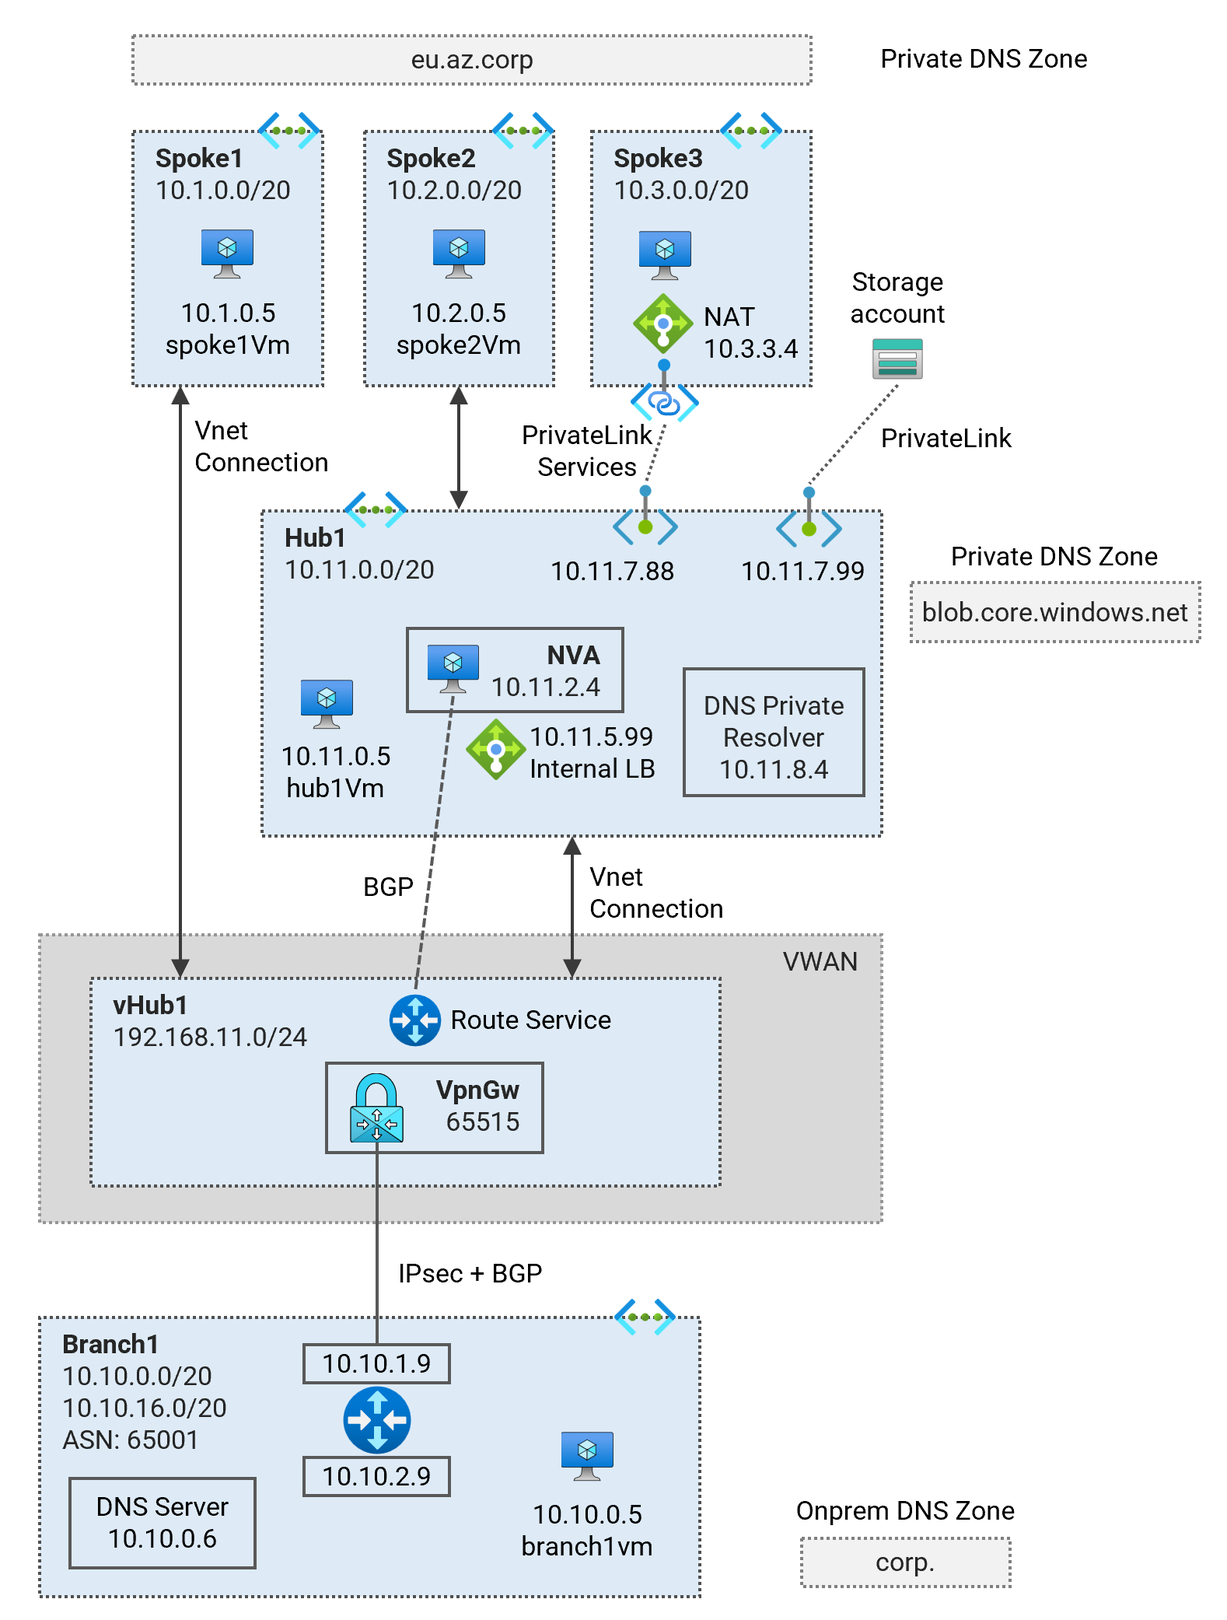
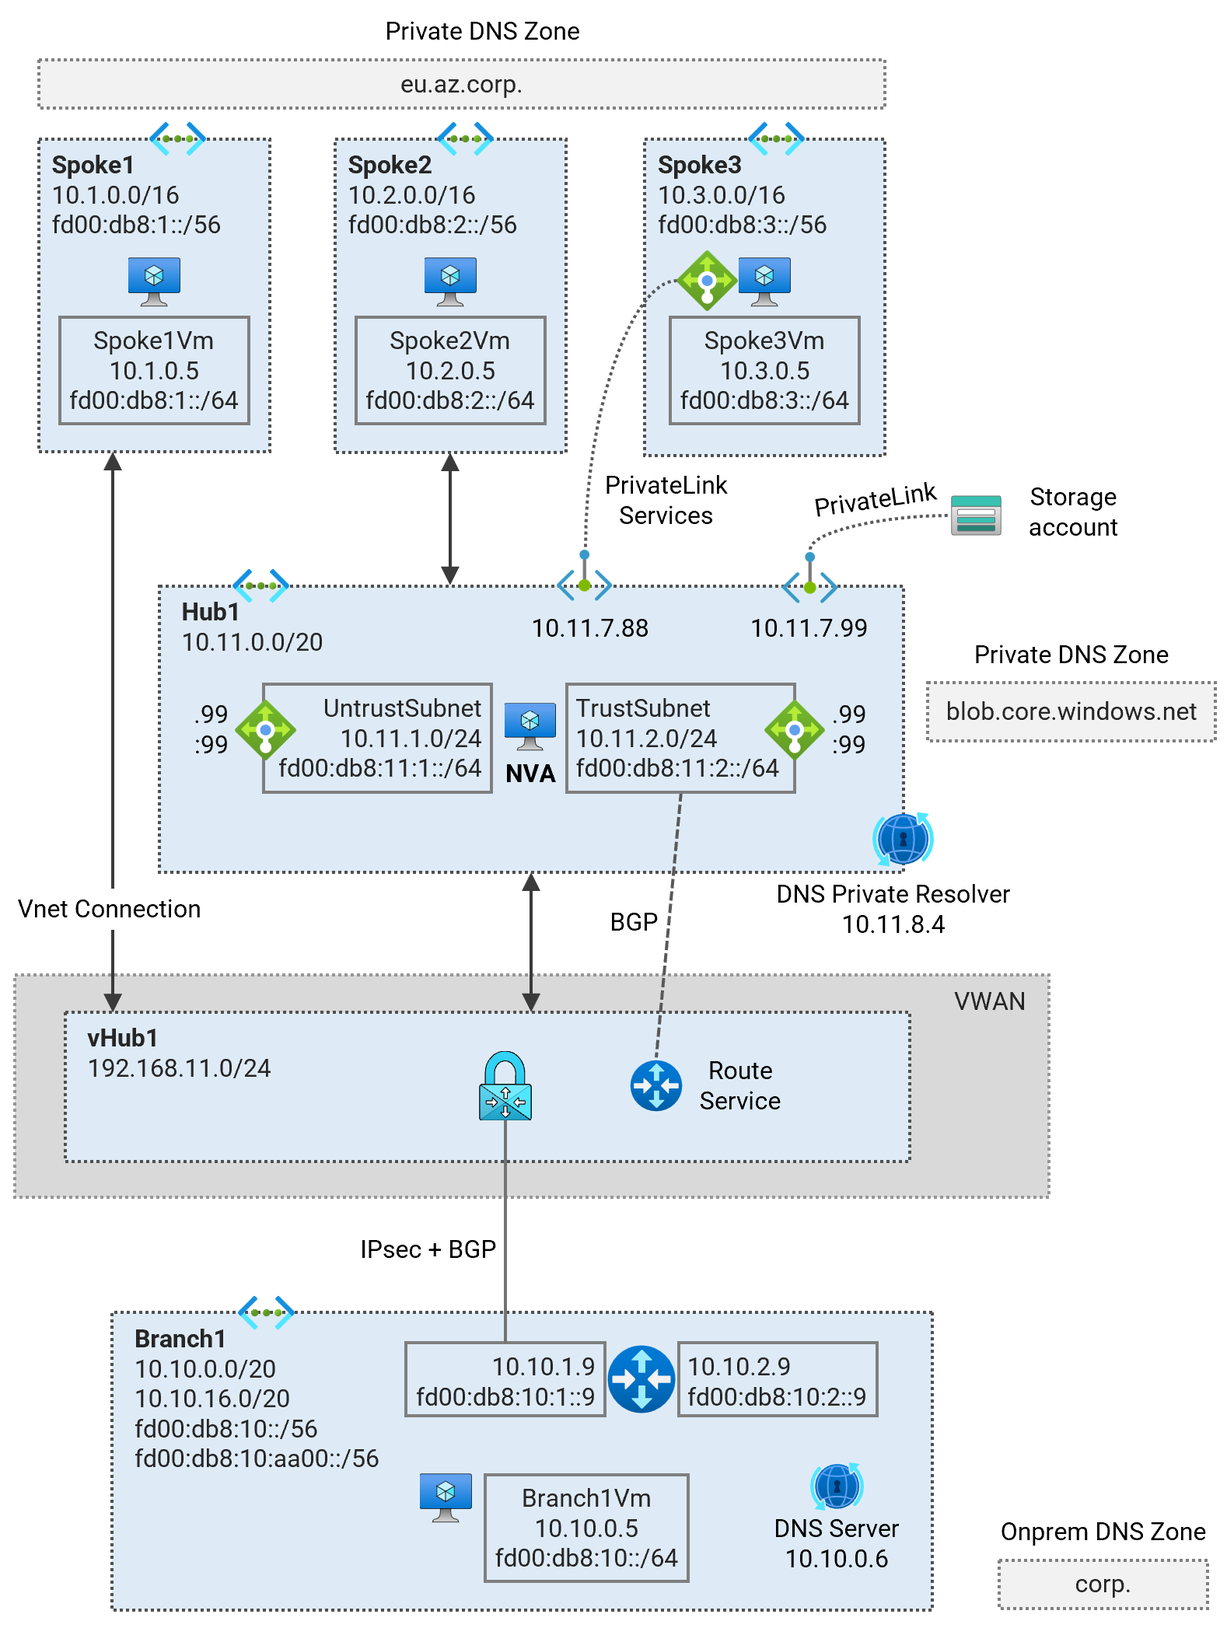
added ipv6 to diagrams

diff --git a/README.md b/README.md
@@ -49,7 +49,7 @@ Terraform codes in this collection cover different hub and spoke network pattern
 
 This lab deploys a single-region Virtual WAN (Vwan) topology. The lab demonstrates traffic routing patterns, [hybrid DNS](https://learn.microsoft.com/en-us/azure/dns/private-resolver-hybrid-dns) resolution, [connecting NVA](https://learn.microsoft.com/en-us/azure/virtual-wan/scenario-bgp-peering-hub) into the virtual hub, and [PrivateLink Services](https://learn.microsoft.com/en-us/azure/private-link/private-link-service-overview) access to IaaS, [PrivateLink](https://learn.microsoft.com/en-us/azure/private-link/private-link-overview) access to PaaS services.
 
-<img src="./images/scenarios/2-1-vwan-single-region.png" alt="Virtual WAN - Single Region" width="580">
+<img src="./images/scenarios/2-1-vwan-single-region.png" alt="Virtual WAN - Single Region" width="620">
 
 ### 2.2. Virtual WAN - Dual Region
 
@@ -57,7 +57,7 @@ This lab deploys a single-region Virtual WAN (Vwan) topology. The lab demonstrat
 
 This lab deploys a dual-region Virtual WAN (Vwan) topology. The lab demonstrates multi-region traffic routing patterns, [hybrid DNS](https://learn.microsoft.com/en-us/azure/dns/private-resolver-hybrid-dns) resolution, [connecting NVA](https://learn.microsoft.com/en-us/azure/virtual-wan/scenario-bgp-peering-hub) into the virtual hubs, and [PrivateLink Services](https://learn.microsoft.com/en-us/azure/private-link/private-link-service-overview) access to IaaS, [PrivateLink](https://learn.microsoft.com/en-us/azure/private-link/private-link-overview) access to PaaS services.
 
-<img src="./images/scenarios/2-2-vwan-dual-region.png" alt="Virtual WAN - Dual Region" width="880">
+<img src="./images/scenarios/2-2-vwan-dual-region.png" alt="Virtual WAN - Dual Region" width="1100">
 
 ### 2.3. Secured Virtual WAN - Single Region
 
@@ -65,7 +65,7 @@ This lab deploys a dual-region Virtual WAN (Vwan) topology. The lab demonstrates
 
 This lab deploys a single-region Secured Virtual WAN (Vwan) topology. [Routing Intent](https://learn.microsoft.com/en-us/azure/virtual-wan/how-to-routing-policies) feature is enabled to allow traffic inspection through the Azure firewall in the virtual hub. The lab demonstrates traffic routing patterns, routing intent [security policies](https://learn.microsoft.com/en-us/azure/virtual-wan/how-to-routing-policies), [hybrid DNS](https://learn.microsoft.com/en-us/azure/dns/private-resolver-hybrid-dns) resolution, NVA integration into the virtual hub, and [PrivateLink Services](https://learn.microsoft.com/en-us/azure/private-link/private-link-service-overview) access to IaaS, [PrivateLink](https://learn.microsoft.com/en-us/azure/private-link/private-link-overview) access to PaaS services.
 
-<img src="./images/scenarios/2-3-vwan-sec-single-region.png" alt="Secured Virtual WAN - Single Region" width="580">
+<img src="./images/scenarios/2-3-vwan-sec-single-region.png" alt="Secured Virtual WAN - Single Region" width="620">
 
 ### 2.4. Secured Virtual WAN - Dual Region
 
@@ -73,7 +73,7 @@ This lab deploys a single-region Secured Virtual WAN (Vwan) topology. [Routing I
 
 This lab deploys a dual-region Secured Virtual WAN (Vwan) topology. [Routing Intent](https://learn.microsoft.com/en-us/azure/virtual-wan/how-to-routing-policies) feature is enabled to allow traffic inspection through the Azure firewalls in the virtual hubs. The lab demonstrates multi-region traffic routing patterns, routing intent [security policies](https://learn.microsoft.com/en-us/azure/virtual-wan/how-to-routing-policies), [hybrid DNS](https://learn.microsoft.com/en-us/azure/dns/private-resolver-hybrid-dns) resolution, [connecting NVA](https://learn.microsoft.com/en-us/azure/virtual-wan/scenario-bgp-peering-hub) into the virtual hubs, and [PrivateLink Services](https://learn.microsoft.com/en-us/azure/private-link/private-link-service-overview) access to IaaS, [PrivateLink](https://learn.microsoft.com/en-us/azure/private-link/private-link-overview) access to PaaS services.
 
-<img src="./images/scenarios/2-4-vwan-sec-dual-region.png" alt="Secured Virtual WAN - Dual Region" width="880">
+<img src="./images/scenarios/2-4-vwan-sec-dual-region.png" alt="Secured Virtual WAN - Dual Region" width="1100">
 
 ## [3. Virtual Network Manager](./3-network-manager/)
 
@@ -83,7 +83,7 @@ This lab deploys a dual-region Secured Virtual WAN (Vwan) topology. [Routing Int
 
 Deploy a single-region Hub and Spoke Secured Virtual Network (Vnet) topology using the [Azure Virtual Network Manager](https://learn.microsoft.com/en-us/azure/virtual-network-manager/concept-connectivity-configuration#hub-and-spoke-topology) (AVNM) service. Learn about traffic routing patterns, [hybrid DNS](https://learn.microsoft.com/en-us/azure/dns/private-resolver-hybrid-dns) resolution, firewall security policies, and [PrivateLink Services](https://learn.microsoft.com/en-us/azure/private-link/private-link-service-overview) access to IaaS, [PrivateLink](https://learn.microsoft.com/en-us/azure/private-link/private-link-overview) access to PaaS services.
 
-<img src="./images/scenarios/3-1-hub-spoke-nm-azfw-single-region.png" alt="Secured Hub and Spoke (Single region)" width="650">
+<img src="./images/scenarios/3-1-hub-spoke-nm-azfw-single-region.png" alt="Secured Hub and Spoke (Single region)" width="750">
 
 ### 3.2. Secured Hub and Spoke - Dual Region (Virtual Network Manager)
 
@@ -91,7 +91,7 @@ Deploy a single-region Hub and Spoke Secured Virtual Network (Vnet) topology usi
 
 Deploy a dual-region Hub and Spoke Secured Virtual Network (Vnet) topology using the [Azure Virtual Network Manager](https://learn.microsoft.com/en-us/azure/virtual-network-manager/concept-connectivity-configuration#hub-and-spoke-topology) (AVNM) service. Learn about traffic routing patterns, [hybrid DNS](https://learn.microsoft.com/en-us/azure/dns/private-resolver-hybrid-dns) resolution, firewall security policies, and [PrivateLink Services](https://learn.microsoft.com/en-us/azure/private-link/private-link-service-overview) access to IaaS, [PrivateLink](https://learn.microsoft.com/en-us/azure/private-link/private-link-overview) access to PaaS services.
 
-<img src="./images/scenarios/3-2-hub-spoke-nm-azfw-dual-region.png" alt="Secured Hub and Spoke (Dual region)" width="1000">
+<img src="./images/scenarios/3-2-hub-spoke-nm-azfw-dual-region.png" alt="Secured Hub and Spoke (Dual region)" width="1200">
 <p>
 
 ## [4. General](./4-general/)

diff --git a/2-virtual-wan/README.md b/2-virtual-wan/README.md
@@ -17,7 +17,7 @@ Terraform codes in this collection cover different hub and spoke network pattern
 
 This lab deploys a single-region Virtual WAN (Vwan) topology. The lab demonstrates traffic routing patterns, [hybrid DNS](https://learn.microsoft.com/en-us/azure/dns/private-resolver-hybrid-dns) resolution, [connecting NVA](https://learn.microsoft.com/en-us/azure/virtual-wan/scenario-bgp-peering-hub) into the virtual hub, and [PrivateLink Services](https://learn.microsoft.com/en-us/azure/private-link/private-link-service-overview) access to IaaS, [PrivateLink](https://learn.microsoft.com/en-us/azure/private-link/private-link-overview) access to PaaS services.
 
-<img src="../images/scenarios/2-1-vwan-single-region.png" alt="Virtual WAN - Single Region" width="580">
+<img src="../images/scenarios/2-1-vwan-single-region.png" alt="Virtual WAN - Single Region" width="620">
 
 ## 2. Virtual WAN - Dual Region
 
@@ -25,7 +25,7 @@ This lab deploys a single-region Virtual WAN (Vwan) topology. The lab demonstrat
 
 This lab deploys a dual-region Virtual WAN (Vwan) topology. The lab demonstrates multi-region traffic routing patterns, [hybrid DNS](https://learn.microsoft.com/en-us/azure/dns/private-resolver-hybrid-dns) resolution, [connecting NVA](https://learn.microsoft.com/en-us/azure/virtual-wan/scenario-bgp-peering-hub) into the virtual hubs, and [PrivateLink Services](https://learn.microsoft.com/en-us/azure/private-link/private-link-service-overview) access to IaaS, [PrivateLink](https://learn.microsoft.com/en-us/azure/private-link/private-link-overview) access to PaaS services.
 
-<img src="../images/scenarios/2-2-vwan-dual-region.png" alt="Virtual WAN - Dual Region" width="880">
+<img src="../images/scenarios/2-2-vwan-dual-region.png" alt="Virtual WAN - Dual Region" width="1100">
 
 ## 3. Secured Virtual WAN - Single Region
 
@@ -33,7 +33,7 @@ This lab deploys a dual-region Virtual WAN (Vwan) topology. The lab demonstrates
 
 This lab deploys a single-region Secured Virtual WAN (Vwan) topology. [Routing Intent](https://learn.microsoft.com/en-us/azure/virtual-wan/how-to-routing-policies) feature is enabled to allow traffic inspection through the Azure firewall in the virtual hub. The lab demonstrates traffic routing patterns, routing intent [security policies](https://learn.microsoft.com/en-us/azure/virtual-wan/how-to-routing-policies), [hybrid DNS](https://learn.microsoft.com/en-us/azure/dns/private-resolver-hybrid-dns) resolution, NVA integration into the virtual hub, and [PrivateLink Services](https://learn.microsoft.com/en-us/azure/private-link/private-link-service-overview) access to IaaS, [PrivateLink](https://learn.microsoft.com/en-us/azure/private-link/private-link-overview) access to PaaS services.
 
-<img src="../images/scenarios/2-3-vwan-sec-single-region.png" alt="Secured Virtual WAN - Single Region" width="580">
+<img src="../images/scenarios/2-3-vwan-sec-single-region.png" alt="Secured Virtual WAN - Single Region" width="620">
 
 ## 4. Secured Virtual WAN - Dual Region
 
@@ -41,5 +41,5 @@ This lab deploys a single-region Secured Virtual WAN (Vwan) topology. [Routing I
 
 This lab deploys a dual-region Secured Virtual WAN (Vwan) topology. [Routing Intent](https://learn.microsoft.com/en-us/azure/virtual-wan/how-to-routing-policies) feature is enabled to allow traffic inspection through the Azure firewalls in the virtual hubs. The lab demonstrates multi-region traffic routing patterns, routing intent [security policies](https://learn.microsoft.com/en-us/azure/virtual-wan/how-to-routing-policies), [hybrid DNS](https://learn.microsoft.com/en-us/azure/dns/private-resolver-hybrid-dns) resolution, [connecting NVA](https://learn.microsoft.com/en-us/azure/virtual-wan/scenario-bgp-peering-hub) into the virtual hubs, and [PrivateLink Services](https://learn.microsoft.com/en-us/azure/private-link/private-link-service-overview) access to IaaS, [PrivateLink](https://learn.microsoft.com/en-us/azure/private-link/private-link-overview) access to PaaS services.
 
-<img src="../images/scenarios/2-4-vwan-sec-dual-region.png" alt="Secured Virtual WAN - Dual Region" width="880">
+<img src="../images/scenarios/2-4-vwan-sec-dual-region.png" alt="Secured Virtual WAN - Dual Region" width="1100">
 

diff --git a/3-network-manager/README.md b/3-network-manager/README.md
@@ -15,7 +15,7 @@ Terraform codes in this collection cover different hub and spoke network pattern
 
 Deploy a single-region Hub and Spoke Secured Virtual Network (Vnet) topology using the [Azure Virtual Network Manager](https://learn.microsoft.com/en-us/azure/virtual-network-manager/concept-connectivity-configuration#hub-and-spoke-topology) (AVNM) service. Learn about traffic routing patterns, [hybrid DNS](https://learn.microsoft.com/en-us/azure/dns/private-resolver-hybrid-dns) resolution, firewall security policies, and [PrivateLink Services](https://learn.microsoft.com/en-us/azure/private-link/private-link-service-overview) access to IaaS, [PrivateLink](https://learn.microsoft.com/en-us/azure/private-link/private-link-overview) access to PaaS services.
 
-<img src="../images/scenarios/3-1-hub-spoke-nm-azfw-single-region.png" alt="Secured Hub and Spoke (Single region)" width="650">
+<img src="../images/scenarios/3-1-hub-spoke-nm-azfw-single-region.png" alt="Secured Hub and Spoke (Single region)" width="750">
 
 ## 2. Secured Hub and Spoke - Dual Region (Virtual Network Manager)
 
@@ -23,4 +23,4 @@ Deploy a single-region Hub and Spoke Secured Virtual Network (Vnet) topology usi
 
 Deploy a dual-region Hub and Spoke Secured Virtual Network (Vnet) topology using the [Azure Virtual Network Manager](https://learn.microsoft.com/en-us/azure/virtual-network-manager/concept-connectivity-configuration#hub-and-spoke-topology) (AVNM) service. Learn about traffic routing patterns, [hybrid DNS](https://learn.microsoft.com/en-us/azure/dns/private-resolver-hybrid-dns) resolution, firewall security policies, and [PrivateLink Services](https://learn.microsoft.com/en-us/azure/private-link/private-link-service-overview) access to IaaS, [PrivateLink](https://learn.microsoft.com/en-us/azure/private-link/private-link-overview) access to PaaS services.
 
-<img src="../images/scenarios/3-2-hub-spoke-nm-azfw-dual-region.png" alt="Secured Hub and Spoke (Dual region)" width="1000">
+<img src="../images/scenarios/3-2-hub-spoke-nm-azfw-dual-region.png" alt="Secured Hub and Spoke (Dual region)" width="1200">

diff --git a/2-virtual-wan/4-vwan-sec-dual-region/README.md b/2-virtual-wan/4-vwan-sec-dual-region/README.md
@@ -26,7 +26,7 @@ Contents
 
 This lab deploys a dual-region Secured Virtual WAN (Vwan) topology. [Routing Intent](https://learn.microsoft.com/en-us/azure/virtual-wan/how-to-routing-policies) feature is enabled to allow traffic inspection through the Azure firewalls in the virtual hubs. The lab demonstrates multi-region traffic routing patterns, routing intent [security policies](https://learn.microsoft.com/en-us/azure/virtual-wan/how-to-routing-policies), [hybrid DNS](https://learn.microsoft.com/en-us/azure/dns/private-resolver-hybrid-dns) resolution, [connecting NVA](https://learn.microsoft.com/en-us/azure/virtual-wan/scenario-bgp-peering-hub) into the virtual hubs, and [PrivateLink Services](https://learn.microsoft.com/en-us/azure/private-link/private-link-service-overview) access to IaaS, [PrivateLink](https://learn.microsoft.com/en-us/azure/private-link/private-link-overview) access to PaaS services.
 
-<img src="../../images/scenarios/2-4-vwan-sec-dual-region.png" alt="Secured Virtual WAN - Dual Region" width="880">
+<img src="../../images/scenarios/2-4-vwan-sec-dual-region.png" alt="Secured Virtual WAN - Dual Region" width="1100">
 
 Standard Virtual Network (Vnet) hubs (***hub1*** and ***hub2***) connect to Vwan hubs (***vHub1*** and ***vHub2*** respectively). Direct spokes (***spoke1*** and ***spoke4***) are connected directly to the Vwan hubs. ***Spoke2*** and ***spoke5*** are indirect spokes from a Vwan perspective; and are connected to standard Vnet hubs. ***Spoke2*** and ***spoke5*** use the Network Virtual Appliance (NVA) in the Vnet hubs as the next hop to all destinations.
 

diff --git a/3-network-manager/2-hub-spoke-azfw-dual-region/README.md b/3-network-manager/2-hub-spoke-azfw-dual-region/README.md
@@ -25,7 +25,7 @@ Contents
 
 This lab deploys a dual-region Hub and Spoke Secured Virtual Network (Vnet) topology using the [Azure Virtual Network Manager](https://learn.microsoft.com/en-us/azure/virtual-network-manager/concept-connectivity-configuration#hub-and-spoke-topology) (AVNM) service. The lab demonstrates multi-region traffic routing patterns, [hybrid DNS](https://learn.microsoft.com/en-us/azure/dns/private-resolver-hybrid-dns) resolution, firewall security policies, and [PrivateLink Services](https://learn.microsoft.com/en-us/azure/private-link/private-link-service-overview) access to IaaS, [PrivateLink](https://learn.microsoft.com/en-us/azure/private-link/private-link-overview) access to PaaS services.
 
-<img src="../../images/scenarios/3-2-hub-spoke-nm-azfw-dual-region.png" alt="Secured Hub and Spoke (Dual region)" width="1000">
+<img src="../../images/scenarios/3-2-hub-spoke-nm-azfw-dual-region.png" alt="Secured Hub and Spoke (Dual region)" width="1200">
 <p>
 
 ***Hub1*** is a Vnet hub that has an Azure firewall used for inspection of traffic between an on-premises branches and Vnets. [User-Defined Routes](https://learn.microsoft.com/en-us/azure/virtual-network/virtual-networks-udr-overview#user-defined) (UDR) are used to influence the hub Vnet data plane to route traffic between the branches and spokes via the firewalls. An isolated spoke ***spoke3*** does not have Vnet peering to ***hub1***, but is reachable from the hub via [Private Link Service](https://learn.microsoft.com/en-us/azure/private-link/private-link-service-overview).

diff --git a/3-network-manager/1-hub-spoke-azfw-single-region/README.md b/3-network-manager/1-hub-spoke-azfw-single-region/README.md
@@ -25,7 +25,7 @@ Contents
 
 This lab deploys a single-region Hub and Spoke Secured Virtual Network (Vnet) topology using the [Azure Virtual Network Manager](https://learn.microsoft.com/en-us/azure/virtual-network-manager/concept-connectivity-configuration#hub-and-spoke-topology) (AVNM) service. Learn about traffic routing patterns, [hybrid DNS](https://learn.microsoft.com/en-us/azure/dns/private-resolver-hybrid-dns) resolution, firewall security policies, and [PrivateLink Services](https://learn.microsoft.com/en-us/azure/private-link/private-link-service-overview) access to IaaS, [PrivateLink](https://learn.microsoft.com/en-us/azure/private-link/private-link-overview) access to PaaS services.
 
-<img src="../../images/scenarios/3-1-hub-spoke-nm-azfw-single-region.png" alt="Secured Hub and Spoke (Single region)" width="650">
+<img src="../../images/scenarios/3-1-hub-spoke-nm-azfw-single-region.png" alt="Secured Hub and Spoke (Single region)" width="750">
 
 ***Hub1*** is a Vnet hub that has an Azure firewall used for inspection of traffic between an on-premises branches and Vnets. [User-Defined Routes](https://learn.microsoft.com/en-us/azure/virtual-network/virtual-networks-udr-overview#user-defined) (UDR) are used to influence the hub Vnet data plane to route traffic between the branches and spokes via the firewalls. An isolated spoke ***spoke3*** does not have Vnet peering to ***hub1***, but is reachable from the hub via [Private Link Service](https://learn.microsoft.com/en-us/azure/private-link/private-link-service-overview).
 

diff --git a/2-virtual-wan/3-vwan-sec-single-region/README.md b/2-virtual-wan/3-vwan-sec-single-region/README.md
@@ -26,7 +26,7 @@ Contents
 
 This lab deploys a single-region Secured Virtual WAN (Vwan) topology. [Routing Intent](https://learn.microsoft.com/en-us/azure/virtual-wan/how-to-routing-policies) feature is enabled to allow traffic inspection through the Azure firewall in the virtual hub. The lab demonstrates traffic routing patterns, routing intent [security policies](https://learn.microsoft.com/en-us/azure/virtual-wan/how-to-routing-policies), [hybrid DNS](https://learn.microsoft.com/en-us/azure/dns/private-resolver-hybrid-dns) resolution, NVA integration into the virtual hub, and [PrivateLink Services](https://learn.microsoft.com/en-us/azure/private-link/private-link-service-overview) access to IaaS, [PrivateLink](https://learn.microsoft.com/en-us/azure/private-link/private-link-overview) access to PaaS services.
 
-<img src="../../images/scenarios/2-3-vwan-sec-single-region.png" alt="Secured Virtual WAN - Single Region" width="580">
+<img src="../../images/scenarios/2-3-vwan-sec-single-region.png" alt="Secured Virtual WAN - Single Region" width="620">
 
 Standard Virtual Network (Vnet) hub, ***hub1*** connects to Vwan hub ***vHub1***. ***Spoke1*** is connected directly to the Vwan hub. ***Spoke2*** is an indirect spoke from a Vwan perspective; and is connected to the standard Vnet hub. ***Spoke2*** uses the Network Virtual Appliance (NVA) in ***hub1*** as the next hop to all destinations.
 

diff --git a/2-virtual-wan/2-vwan-dual-region/README.md b/2-virtual-wan/2-vwan-dual-region/README.md
@@ -25,7 +25,7 @@ Contents
 
 This lab deploys a dual-region Virtual WAN (Vwan) topology. The lab demonstrates multi-region traffic routing patterns, [hybrid DNS](https://learn.microsoft.com/en-us/azure/dns/private-resolver-hybrid-dns) resolution, [connecting NVA](https://learn.microsoft.com/en-us/azure/virtual-wan/scenario-bgp-peering-hub) into the virtual hubs, and [PrivateLink Services](https://learn.microsoft.com/en-us/azure/private-link/private-link-service-overview) access to IaaS, [PrivateLink](https://learn.microsoft.com/en-us/azure/private-link/private-link-overview) access to PaaS services.
 
-<img src="../../images/scenarios/2-2-vwan-dual-region.png" alt="Virtual WAN - Dual Region" width="880">
+<img src="../../images/scenarios/2-2-vwan-dual-region.png" alt="Virtual WAN - Dual Region" width="1100">
 <p>
 
 Standard Virtual Network (Vnet) hubs (***hub1*** and ***hub2***) connect to Vwan hubs (***vHub1*** and ***vHub2*** respectively). ***Spoke1*** and ***spoke4*** are connected directly to the Vwan hubs. ***Spoke2*** and ***spoke5*** are indirect spokes from a Vwan perspective; and are connected to the standard Vnet hubs. ***Spoke2*** and ***spoke5*** use the Network Virtual Appliance (NVA) in the Vnet hubs as the next hop to all destinations.

diff --git a/2-virtual-wan/1-vwan-single-region/README.md b/2-virtual-wan/1-vwan-single-region/README.md
@@ -25,7 +25,7 @@ Contents
 
 This lab deploys a single-region Virtual WAN (Vwan) topology. The lab demonstrates traffic routing patterns, [hybrid DNS](https://learn.microsoft.com/en-us/azure/dns/private-resolver-hybrid-dns) resolution, [connecting NVA](https://learn.microsoft.com/en-us/azure/virtual-wan/scenario-bgp-peering-hub) into the virtual hub, and [PrivateLink Services](https://learn.microsoft.com/en-us/azure/private-link/private-link-service-overview) access to IaaS, [PrivateLink](https://learn.microsoft.com/en-us/azure/private-link/private-link-overview) access to PaaS services.
 
-<img src="../../images/scenarios/2-1-vwan-single-region.png" alt="Virtual WAN - Single Region" width="580">
+<img src="../../images/scenarios/2-1-vwan-single-region.png" alt="Virtual WAN - Single Region" width="620">
 
 Standard Virtual Network (Vnet) hub, ***hub1*** connects to Vwan hub ***vHub1***. ***Spoke1*** is connected directly to the Vwan hub. ***Spoke2*** is an indirect spoke from a Vwan perspective; and is connected to the standard Vnet hub. ***Spoke2*** uses the Network Virtual Appliance (NVA) in ***hub1*** as the next hop to all destinations.
 
